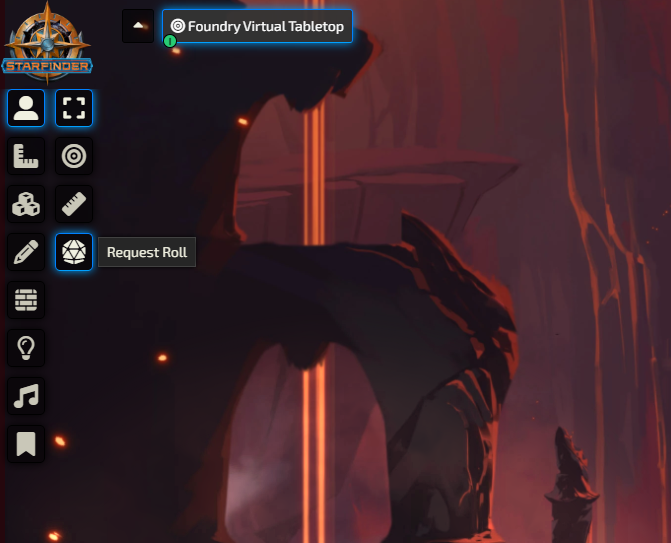
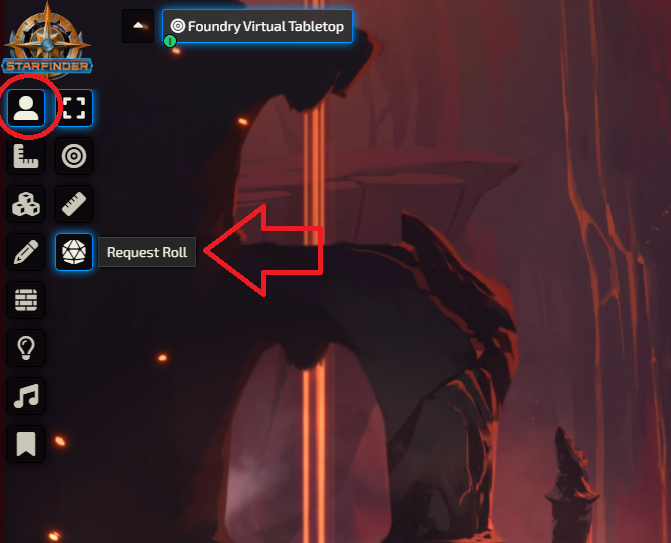
Adding in documentation to how to use ceus

diff --git a/USAGE.md b/USAGE.md
@@ -1,0 +1,123 @@
+# How to Use Ceus
+Ceus is kept as simple as possible for players, while affording many options for GMs.
+
+## Opening Ceus
+**NOTE:** This module's editor menu can only be seen by GMs.
+
+![Open Request](images/OpenRequest.png)
+Ceus' GM Interface can be accessed from the Token Controls > Request Roll button.
+
+If you cannot see this button, you (probably):
+- are running Ceus with a ruleset that is incompatible with Ceus
+- have another module that is conflicting with Ceus. Ceus is generally compatible with almost every module, but if you have a module takes control of the Token Controls drop down.
+- haven't enabled Ceus from the Manage Modules screen.
+
+## Selecting Users
+![Select Users](images/SelectUsers.png)
+Once you have opened the Ceus interface, you should see every user that is attached to this Foundry instance. You can click on individual players or you can click on the Add All buttons to add specific types of people.
+
+**NOTE:** The Active Tag is not automatically updating at this time. The Active tag only applies from when the screen is opened.
+
+## Selecting Actors
+![Select Actors](images/SelectActors.png)
+After you have selected at least one user, every actor that the selected users *could* have ownership to will appear in the Select Actors area.
+
+Each actor has a colored line above their image that denotes their disposition (Red = Enemy, Yellow = Neutral, Green = Friendly, Purple = Secret). You may select individual actors, or you may select groups of actors by using the Add All Buttons.
+
+**NOTE:** When you select multiple users, it will show all of the actors that any of the users selected have ownership to. For GMs, they have ownership to all actors.
+
+## Configuring the Roll screen
+![Select Rolls](images/SelectRolls.png)
+Options in this area allow you to customize what players will see.
+
+### Roll Privacy
+Ceus allows roll privacy to be enforced, if your ruleset is setup for it. When a player attempts to roll, it will override the settings when the player rolls:
+- Public Rolls will display the results of the roll to everyone
+- Blind GM Rolls will display that a roll was made, but only GMs will see the result
+- GM Rolls will display the roll to only the user that rolled it and all GMs.
+- Self Rolls will only display the roll to the user that rolled it.
+
+**NOTE:** Regardless of roll privacy, the GM that launches this roll will be able to see the result of the roll in the results window.
+
+### Roll Number
+Ceus allows for GMs to configure how many rolls can be made per Actor.
+- In Roll Any mode, players will be able to roll one, some, or all rolls given per Actor (at their discretion).
+- In Roll Only One mode, players will be able to roll only one of the available rolls per Actor.
+- In Roll All mode, players must roll all rolls. The screen can be closed by players at any time, and there is no restriction forcing players to click any rolls, this is just a display option.
+
+## Selecting Rolls
+![Create Roll](images/CreateRoll.png)
+GMs can choose any type of generic roll for the specific ruleset selected. GMs may add as many (or as little) rolls as they want to.
+
+### Custom/Bonus
+This will be added (by default) to the roll. If your ruleset system requires that there is a popup for the roll, anything typed here should be automatically added to the bonus part.
+
+### Advantage/Disadvantage
+If your system allows for configuring Advantage and Disadvantage, you may select what players can select (Normal/Advantage/Disadvantage).
+
+### DC (Difficulty Class)
+GMs can enter in a Difficulty Class (DC) that is the target number that a player must meet in order to succeed at that specific roll. The DC is not displayed to players until they complete their roll.
+
+### Trained
+If your system has the options, you may select how a roll should be displayed depending on the Trained State of the roll.
+- With Require Trained, rolls that require a skill, attribute, or option that the character is not trained in will not be displayed.
+- With Prevent Trained, when a player attempts to roll a skill, attribute, or option that the character is not trained in, they will see a warning that asks them if they wish to still roll.
+- With Allow Untrained, players will be able to roll the roll, regardless of their trained status.
+
+Systems without a configurable Trained status will always roll in Always Untrained mode. Rolls may be setup in a way that if a roll does not require training, but Require Trained is selected, it will not hide or put the roller on notice about the untrained option.
+
+### Helpful Considerations
+- Roll requests will be sent to all users that were selected. Roll requests will only show for Actors the User has ownership over (or if they are GM).
+- Its not possible to have one roll option go to one user/actor, and have another separate option for another user/actor. Those are separate calls to the Ceus system. (So, you can't have a Grappler roll a Grapple check while a defender roll an Escape Artist or Reflex save in the same screen)
+- As a GM, you will be able to modify rolls after receiving them. Helpful if you have a Circumstance bonus that you don't want to disclose to the party.
+- Each roll can only be rolled once per actor. Once a roll has been completed for an actor, all other user's Ceus Player Request screens will update to reflect that the roll has already been completed by another user. In the event that two rolls are received for the same actor/roll combination, only the first roll will be considered.
+
+## Sending Rolls
+![Sending Roll](images/Actions.png)
+Once you have configured your roll, you have five options for sending rolls.
+
+### Roll for Selected
+This option will show the roll screen for only the user executing the Ceus Roll screen. All the possible rolls for all of the selected actors will be queued up for the GM to roll, and, afterwards, it display the results. Helpful if you want to make secret Perception checks (just make sure to remember Self Roll!)
+
+### Ask Selected to Roll
+This option will show the results screen and send a roll request to all the users selected.
+
+### Generate Macro: To this screen
+This will build a custom macro that will pop up. This macro, when called, will display the Ceus: Request Roll screen (this screen), with all of the options previously selected.
+
+### Generate Macro: To roll for selected
+This will build a custom macro that will pop up. This macro, when called, will show the results screen and show to the macro runner the roll screen.
+
+### Generate Macro: To ask selected to Roll
+This will build a custom macro that will pop up. This macro, when called, will show the results screen, and ask all of the specified users to roll the selected rolls.
+
+## Roll Results
+![Roll Results](images/RollResults.png)
+After a roll request has been sent, a roll results screen will show to the user that requested the roll.
+
+As users complete their rolls, their results will appear on this screen. If a DC has been set, it will automatically show if a result total exceeds the DC set. It will show who rolled the roll, what roll they selected, the breakdown (if the ruleset provides it), and the total roll.
+
+### Re-Notify Rollers
+If your player has reported they accidentally closed the screen or refreshed their screen, you may select the "Notify" option, which will show the rolling screen for all users that are attached to that actor (or all actors on the roll).
+
+### Cancel Rolls
+Cancelling rolls will shut down roll options for players. This is useful if you made a roll mistake.
+
+### Rolling
+At any point in time, a GM can select that they want to roll for a player. This will show the roll screen to the GM that clicked the button and allow them to roll as the Actor. 
+
+**NOTE:** This roll screen has the same restrictions as all the other roll request screens: it will not allow a second roll for the same actor/roll combination.
+
+### Rerolling
+After a roll has been received, a GM may select the reroll option. This will send a notification to all attached users that a roll has been requested.
+
+### Editing Rolls
+GMs may edit the totals at any time. Doing so will set the roll to "GM Fiat," and it will discard everything in the roll. It will also update the success/fail condition (if a DC has been set). Players will not be notified of any changes to this roll.
+
+### Announcing results
+At any time, announcements can be made for a single roll, or all rolls.
+
+- Full Results: This will show to all players a breakdown of all of the rolls that were received by Ceus, including totals.
+- At Least One Success?: This will show a pass if *any* of the rolls were a success, regardless of character.
+- Success Breakdown: This will show a breakdown of every actor and show if they succeeded at least once, or all of their rolls were failures. This will not show totals, or what roll succeeded or failed, just which Actors succeeded and which failed.
+- Success/Fail: This will show if a single roll was a success or failure. It will not show the total or DC.

diff --git a/README.md b/README.md
@@ -7,6 +7,8 @@ It's simple to say, pronounced like 'cues.' The name's inspired by Coeus, a Gree
 # Rebrand / Refactor
 This new functionality completely changes how the asking for rolls works. Ceus no longer supports any legacy versions of `RollProvider` and those systems are now removed to prevent collisions. The code remaining is just kept around for documentation.
 
+For information on how to use Ceus and its features check out [USAGE.md](USAGE.md).
+
 ## Abstracting Roll functionality
 
 Each system has a different way of accomplishing rolls. As such, asking for a roll is handled by each `RefactorRollProvider`. All of the figuring out how to roll will be handled by the Provider, rather than a weird way of handling it in the rolling system.
